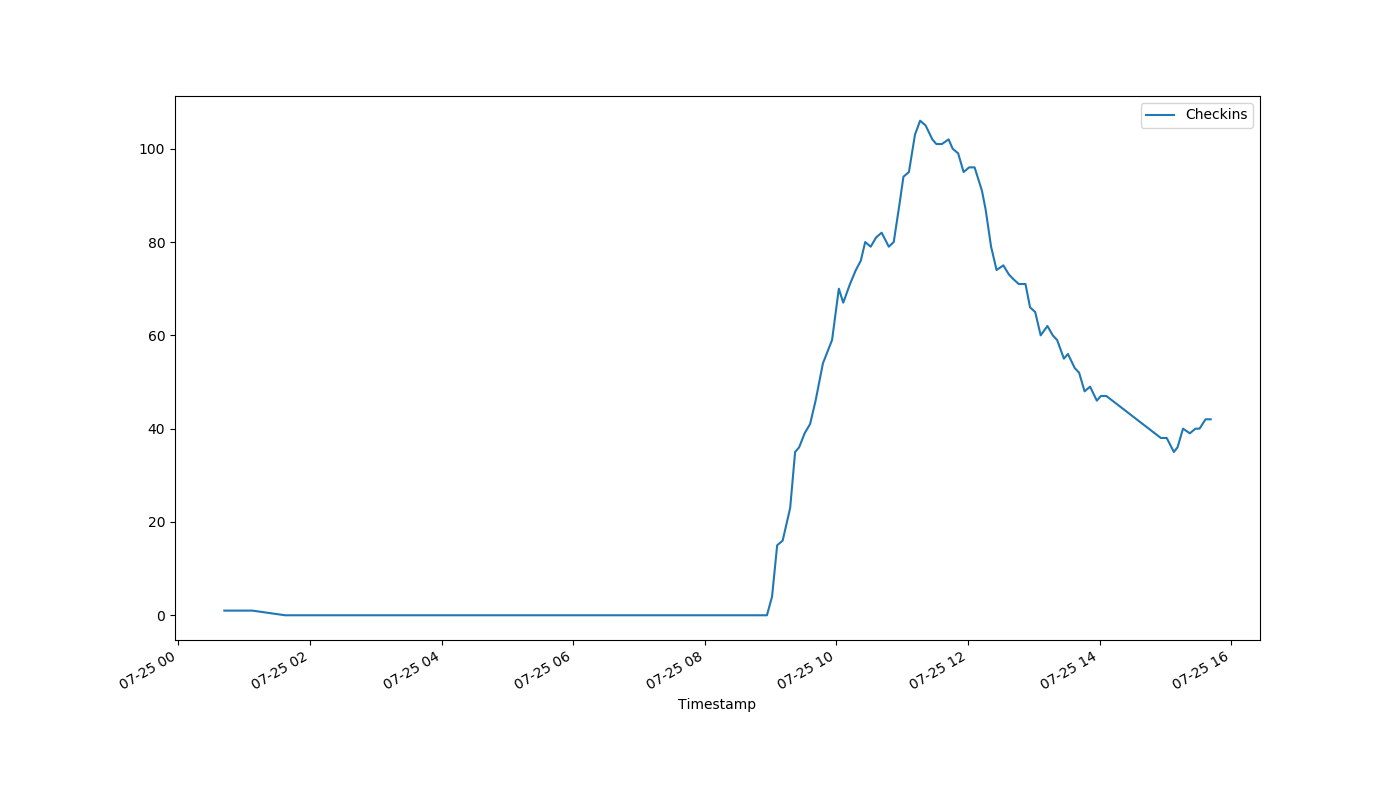
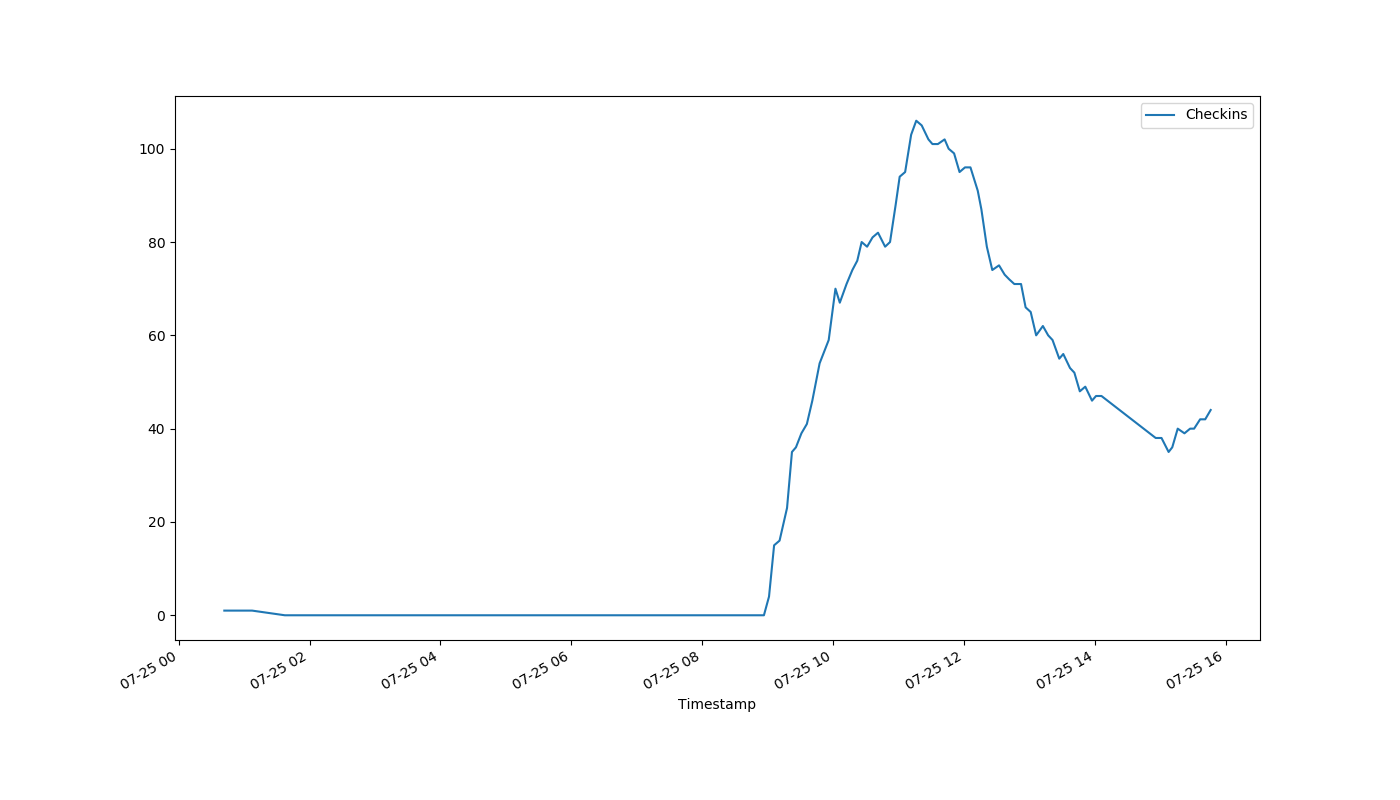
auto-Jul-25-15:47:57

diff --git a/index.html b/index.html
@@ -1,1 +1,1 @@
-<!DOCTYPE html><html><head><meta http-equiv="refresh" content="30"><link rel='stylesheet' href='holmcurrent.css'></head><body><p id='count'>42</p><div id='graph-wrap'><img id='graph' src='holmgraph-Jul-25.png'></div><p id='updated'>Last updated 15:42:07 / 15:41:18</p></body></html>
+<!DOCTYPE html><html><head><meta http-equiv="refresh" content="30"><link rel='stylesheet' href='holmcurrent.css'></head><body><p id='count'>44</p><div id='graph-wrap'><img id='graph' src='holmgraph-Jul-25.png'></div><p id='updated'>Last updated 15:47:07 / 15:46:18</p></body></html>
